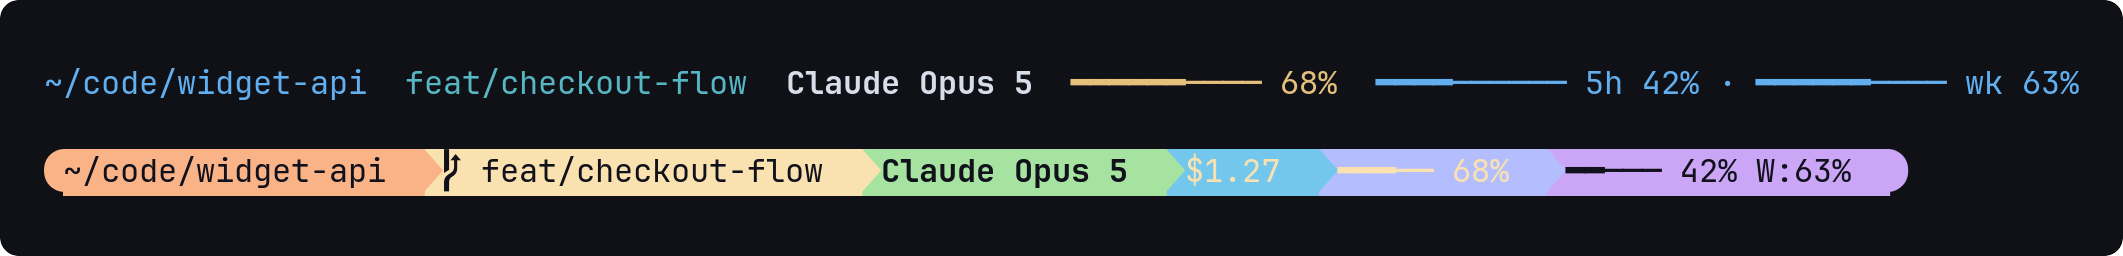
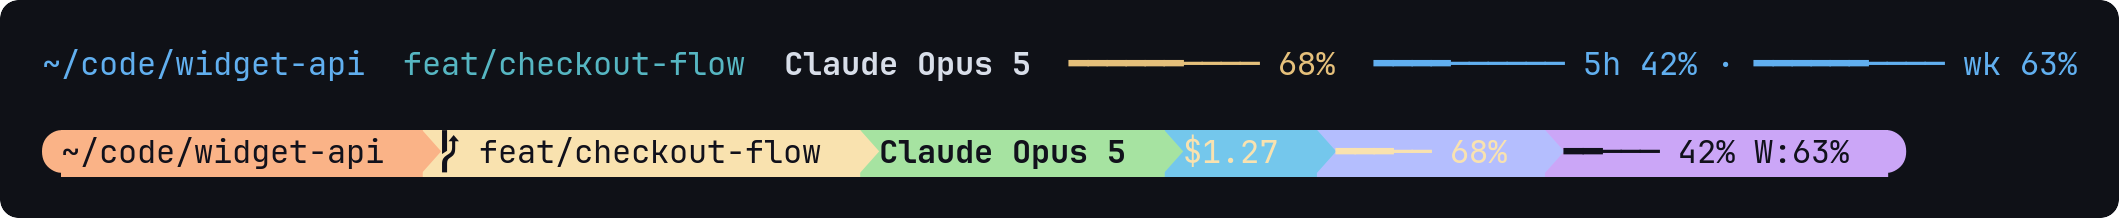
docs: even padding around the preview rows
Card inset and row gap were tuned separately and drifted apart, so the
two rows read as a pair pushed against the middle. Both derive from one
GAP now: 42px from the edge, 42px between.

diff --git a/scripts/ansi2png.py b/scripts/ansi2png.py
@@ -16,9 +16,13 @@ FONT = f"{FONT_DIR}/JetBrainsMonoNerdFontMono-Regular.ttf"
 FONT_BOLD = f"{FONT_DIR}/JetBrainsMonoNerdFontMono-Bold.ttf"
 PT = 32
 CELL_W = 19.025
-LINE_H = 88      # pill height plus a full pill-height of air between rows
-PAD_X = 44
-PAD_Y = 40
+# One gap value everywhere: between rows, and from the card edge to the
+# outermost row. Derived rather than tuned separately, so they cannot drift.
+PILL_H = 46
+GAP = 42
+LINE_H = PILL_H + GAP
+PAD_X = GAP
+PAD_Y = GAP - (LINE_H - PILL_H) // 2
 RADIUS = 18
 BG = "#0f1117"
 FG = "#d8dee9"
@@ -72,7 +76,7 @@ def main():
         # Each pill is drawn a fixed height, centred in its row, so the gap
         # between rows stays even however tall the line box is.
         row_top = PAD_Y + row * LINE_H
-        pill_h = 46      # the pill itself; the rest of LINE_H is the gap
+        pill_h = PILL_H
         top = row_top + (LINE_H - pill_h) / 2
         baseline = top + pill_h * 0.72
         for text, fg, bg, bold in runs:
